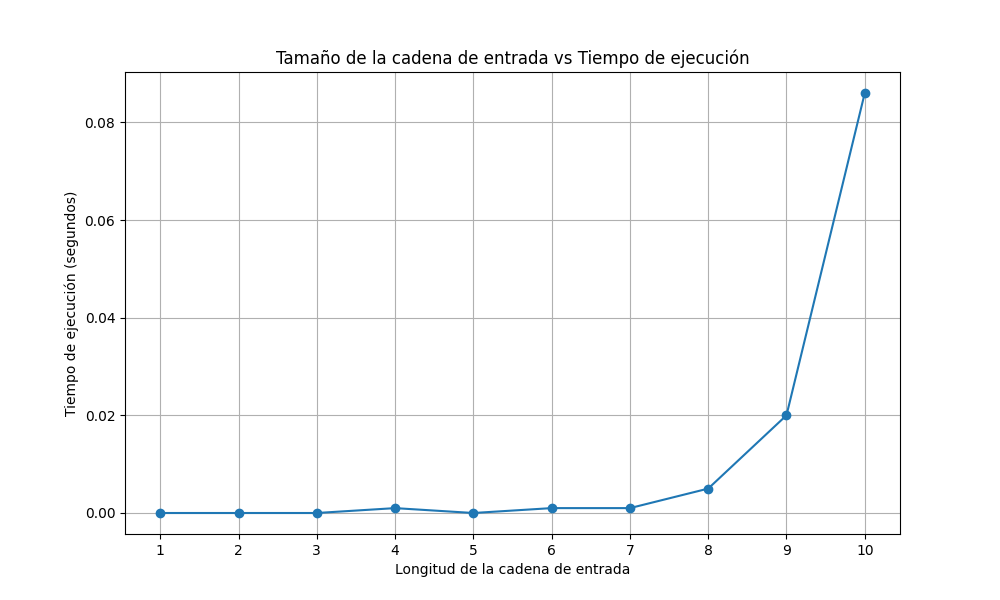
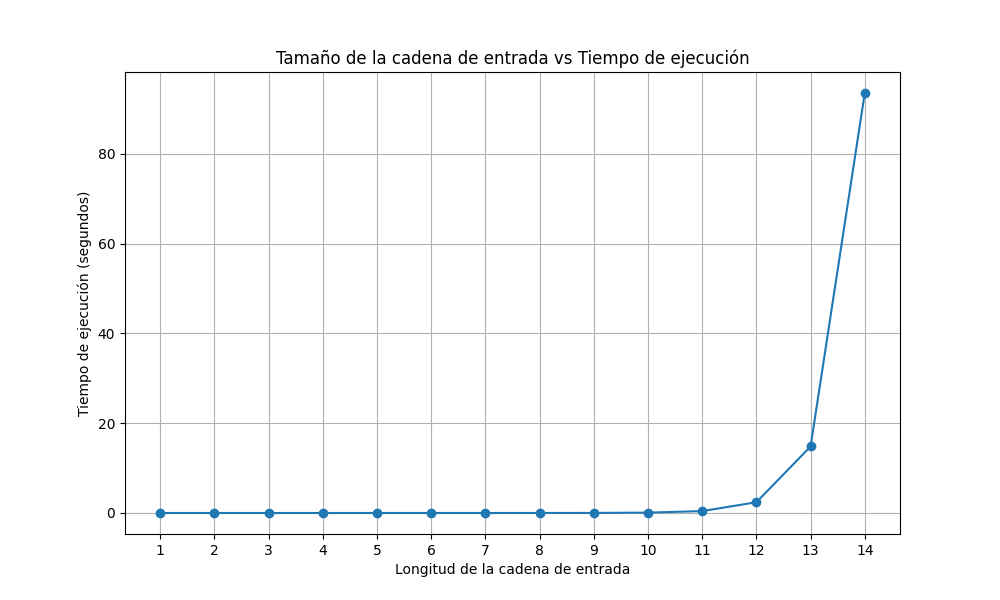
execution time plot chart

diff --git a/backend/turing.py b/backend/turing.py
@@ -112,6 +112,7 @@ if __name__ == "__main__":
         config = json.load(config_file)
 
     turing_machine = TuringMachine(**config)  # Leer el archivo json y crear una instancia de la máquina de Turing
+    plot_execution_times()
 
     if input("Desea realizar prueba del millon?(Si, No) ") == "Si":
         getMillionTest(turing_machine)
